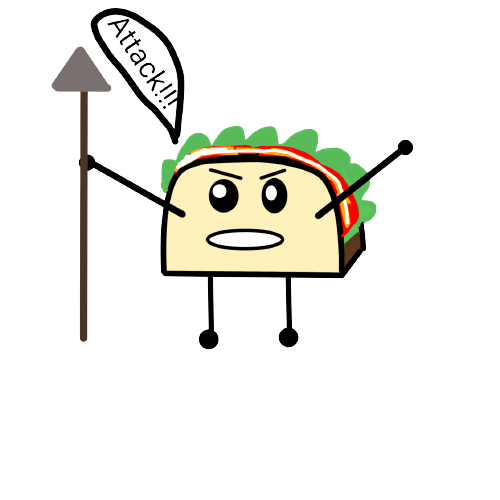
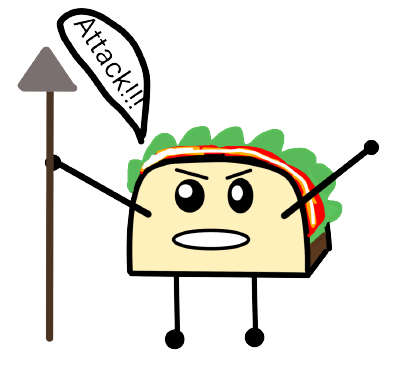
save 2

Changed region(s): [[0.0299, 0.0, 0.9576, 0.9239]]

diff --git a/app.js b/app.js
@@ -44,15 +44,21 @@ const player2 = {
         attackButton.addEventListener ("click", (event) => {
             this.taco.currentChoice = "attack"
             const attackTacoImg = document.getElementById ("originaltaco")
-            attackTacoImg.src = "https://i.imgur.com/oVwxgdv.png"
+            attackTacoImg.src = "https://i.imgur.com/Zz4taLm.png"
+            attackTacoImg.style.width = "500px"
+            attackTacoImg.style.marginTop = "210px"
+            
         })
     },
+
     defend () {
         const defendButton = document.querySelector("#defendtaco")
         defendButton.addEventListener ("click", (event) => {
             this.taco.currentChoice = "defend"
             const defendTacoImg = document.getElementById ("originaltaco")
-            defendTacoImg.src = "https://i.imgur.com/zkBclQB.png"
+            defendTacoImg.src = "https://i.imgur.com/QCyIGwO.png"
+            defendTacoImg.style.marginTop = "245px"
+            defendTacoImg.style.width = ""
         })
     },
     heal () {
@@ -60,7 +66,9 @@ const player2 = {
         healButton.addEventListener ("click", (event) => {
             this.taco.currentChoice = "heal"
             const healTacoImg = document.getElementById ("originaltaco")
-            healTacoImg.src = "https://i.imgur.com/wGeMsaL.png"
+            healTacoImg.src = "https://i.imgur.com/nc3nrct.png"
+            healTacoImg.style.marginTop = "225px"
+            healTacoImg.style.width = ""
         })
     },
 }
@@ -134,8 +142,19 @@ const game = () => {
                 const defeatedBurrito = document.getElementById("originalburrito")
                 defeatedBurrito.src = ""
                 const victoryTaco = document.getElementById ("originaltaco")
-                victoryTaco.src = "https://i.imgur.com/odkdYE9.png"
+                victoryTaco.src = "https://i.imgur.com/6VuLdv9.png"
                 result.innerHTML = "Taco has defeated Burrito to become the Supreme Mexican Food"
+                document.getElementById("battle").disabled = true
+                document.getElementById("start").disabled = true
+                const refresh = document.createElement ("button")
+                refresh.innerText = "Refresh Game"
+                const appendToTop = document.querySelector(".gameplay")
+                appendToTop.appendChild(refresh)
+                refresh.style.fontSize = "20px"
+                refresh.style.marginBottom = "0px"
+                refresh.addEventListener("click", (event)=> {
+                     location.reload()
+                 })
             }
             else if (player2.taco.health === 0) {
                 const defeatedTaco = document.getElementById("originaltaco")
@@ -143,7 +162,19 @@ const game = () => {
                 const victoryBurrito = document.getElementById("originalburrito")
                 victoryBurrito.src = "https://i.imgur.com/ROYglNr.png"
                 result.innerHTML = "Burrito has defeated Taco to become the Supreme Mexican Food"
+                const refresh = document.createElement ("button")
+                refresh.innerText = "Refresh Game"
+                const appendToTop = document.querySelector(".gameplay")
+                appendToTop.appendChild(refresh)
+                refresh.style.fontSize = "20px"
+                refresh.style.marginBottom = "0px"
+                document.getElementById("battle").disabled = true
+                document.getElementById("start").disabled = true
+                refresh.addEventListener("click", (event)=> {
+                    location.reload()
+                })
             }
+            
         }
         endGame()
 }

diff --git a/style.css b/style.css
@@ -1,14 +1,27 @@
 body {
     background-image: url("https://i.imgur.com/LFZ0fpj.png");
     background-repeat: no-repeat;
-    background-size: cover;
+    background-size: cover; 
     min-height: 100vh;
     max-width: 100vw;
-}
-#title {
-    font-size: 100px;
+    background-color: black; 
     text-align: center;
-    color: linear-gradient(0deg, green, white, red);
+}
+
+
+#title {
+    margin-top: 0px;
+    margin-bottom: 0px;
+    font-size: 80px;
+    text-align: center;
+    background-image: linear-gradient(0deg,red, green);
+    background-size: 100%;
+    background-clip: text;
+    -webkit-background-clip: text;
+    -moz-background-clip: text;
+    -webkit-text-fill-color: transparent;
+    -moz-text-fill-color: transparent; 
+    font-weight: bold;
     font-style: italic; 
 }
 
@@ -19,39 +32,92 @@ body {
  .players {
     display: flex;
     flex-direction: row;
-    border: solid white;
+   
     font-weight: bold;
     padding-top: 50px;
       
 } 
 #tacohealth {
-    margin-left: 650px;
+    margin-left: 750px;
+    margin-bottom: 0px;
+    color: white;
+    background-color: darkgreen;
+    border: solid black;
+    max-width: 300px;
+}
+#burritohealth {
+    margin-left: 50px;
+    margin-bottom: 0px;
+    background-color: darkgreen;
+    border: solid black;
+    color: white;
+    max-width: 300px;
 }
 
 #originalburrito {
-    
     margin-top: 100px;
-    border: solid white;
     align-self: flex-start;
-    max-width: 400px;
+    width: 400px;
 }
 #originaltaco {
-    
-    max-width: 400px;
-    margin-top: 100px;
-   
-    border: solid white;
+    max-width: 300px;
+    margin-top: 255px;
+    margin-left: 700px;
     align-content: flex-end;
+    
 }
 .burritobuttons {
-    border: solid white;
+    max-width: 400px;
+    margin-bottom: 0px;
 
 }
 .tacobuttons {
-    border: solid white;
-    font-size: 50px;
+    max-width: 400px;
+    margin-left: 700px;
+    margin-bottom: 0px;
+    
+}
+
+#attacktaco {
+    background-color: red;
+    color: white;
+    font-weight: bold;
+    font-size: 30px;
+}
+#defendtaco {
+    background-color: blue;
+    color: white;
+    font-weight: bold;
+    font-size: 30px;
+}
+#healtaco {
+    background-color: green;
+    color: white;
+    font-weight: bold;
+    font-size: 30px;
+}
+#attackburrito {
+    background-color: red;
+    color: white;
+    font-weight: bold;
+    font-size: 30px;
+}
+#defendburrito {
+    background-color: blue;
+    color: white;
+    font-weight: bold;
+    font-size: 30px;
+}
+#healburrito {
+    background-color: green;
+    color: white;
+    font-weight: bold;
+    font-size: 30px;
 }
 #start {
-    display:flex;
-    align-content: center;
+    font-size: 20px;
+}
+#battle {
+    font-size: 20px;
+    margin-bottom: 0px;
 }

diff --git a/index.html b/index.html
@@ -9,8 +9,9 @@
     <h1 id = "title">Mexican Food Fight</h1>
     <button id ="start">START</button>
     <h1 id = "result"> </h1>
+    <div class = "gameplay">
     <button id ="battle">Battle Commence</button>
-    
+    </div>
     <div class = "players">
         <div class = "burrito">
             <h2 id="burritohealth"> Burrito Health: 100</h2>
@@ -24,7 +25,7 @@
         </div>
         <div class = "taco">
             <h2 id="tacohealth">Taco Health: 100</h2>
-             <img id = "originaltaco" src ="https://i.imgur.com/5MFAl8f.png">
+             <img id = "originaltaco" src ="https://i.imgur.com/M8LP6gh.png">
              <div class = "tacobuttons">
                 <button id="attacktaco">Attack</button>
                 <button id="defendtaco">Defend</button>
